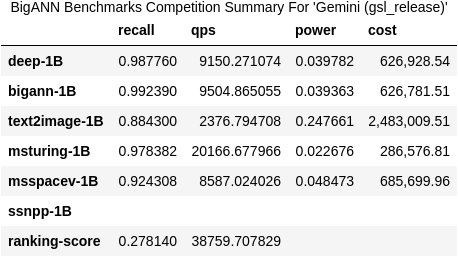
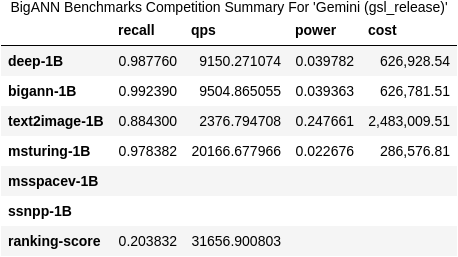
rendered gsl_release notebook

diff --git a/t3/t3eval.py b/t3/t3eval.py
@@ -15,7 +15,7 @@ MAX_RUN_PARMS   = 10 # Competition rule
 class Evaluator():
     '''Useful evaluation functionality for the T3 track.'''
 
-    def __init__(self, algoname, csv, baseline_path, comp_path, system_cost=None, verbose=False ):
+    def __init__(self, algoname, csv, baseline_path, comp_path, system_cost=None, verbose=False, pending=[] ):
         '''Constructor performs sanity and some competition rule checks.'''
 
         if sys.version_info[0] < 3:
@@ -49,6 +49,7 @@ class Evaluator():
    
         self.algoname = algoname 
         self.system_cost = system_cost
+        self.pending = pending
         self.verbose = verbose
         self.evals = {} 
 
@@ -78,10 +79,13 @@ class Evaluator():
             if not dataset in list(self.evals.keys()):
                 cols = [ None, None, None, None ]
             else:
-                cols = [ self.evals[dataset]["best_recall"][1], 
-                    self.evals[dataset]["best_qps"][1], 
-                    self.evals[dataset]["best_wspq"][2], 
-                    self.evals[dataset]["cost"] ]
+                if dataset in self.pending:
+                    cols = [ None, None, None, None ]
+                else:
+                    cols = [ self.evals[dataset]["best_recall"][1], 
+                        self.evals[dataset]["best_qps"][1], 
+                        self.evals[dataset]["best_wspq"][2], 
+                        self.evals[dataset]["cost"] ]
             summary[dataset] = cols
       
         # 
@@ -90,6 +94,7 @@ class Evaluator():
         if self.verbose: print("computing scores")
         scores = [0, 0, np.nan, np.nan]
         for dataset in DATASETS:
+
             if summary[dataset][0]: # recall
                 diff = summary[dataset][0] - self.baseline[dataset]["recall"][0]
                 if self.verbose: print("diff recall",dataset,diff)
@@ -114,10 +119,6 @@ class Evaluator():
         summary["ranking-score"] = scores
         if self.verbose: print("summary", summary)
 
-        #else:
-        #    idx = list(summary.keys()) + ["ranking-score"]
-        #    summary["ranking-score"] = [ np.nan, np.nan, np.nan, np.nan ]
-       
         df = pd.DataFrame(summary.values(),columns=['recall','qps','power','cost'],index=idx)
         if self.verbose: print(df)
 
